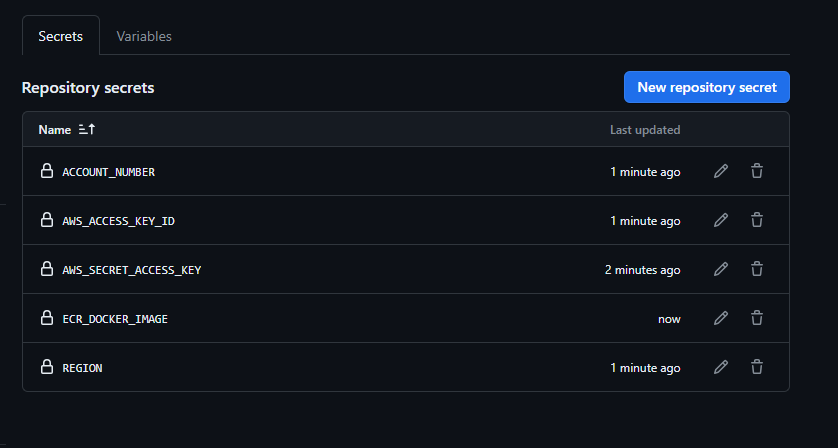
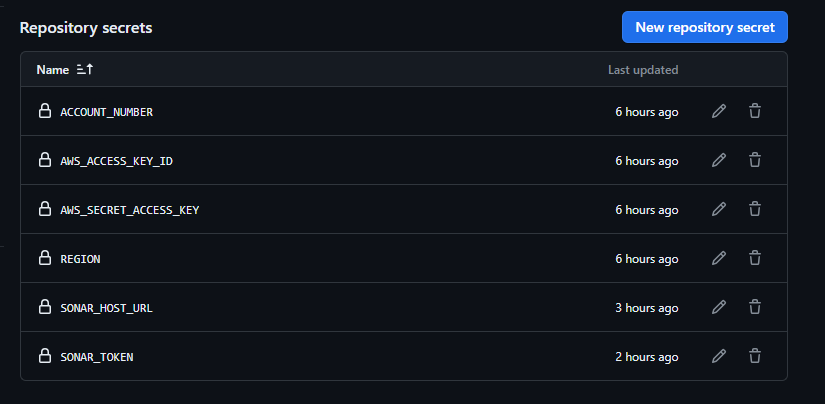
test tf

diff --git a/readme.md b/readme.md
@@ -7,3 +7,17 @@ This repository contains a sample fast api written in python. The api accepts a 
     "letter" : "p" # can be any other letter
 }
 ```
+
+To use this repo on the cloud ensure you set you github actions secrets with AWS credentials, AWS Account Number, Region, sonar host url, sonar token
+
+```
+ACCOUNT_NUMBER
+AWS_ACCESS_KEY_ID
+AWS_SECRET_ACCESS_KEY
+REGION
+SONAR_HOST_URL
+SONAR_TOKEN
+```
+![Secet Variables](./img/image.png)
+
+
